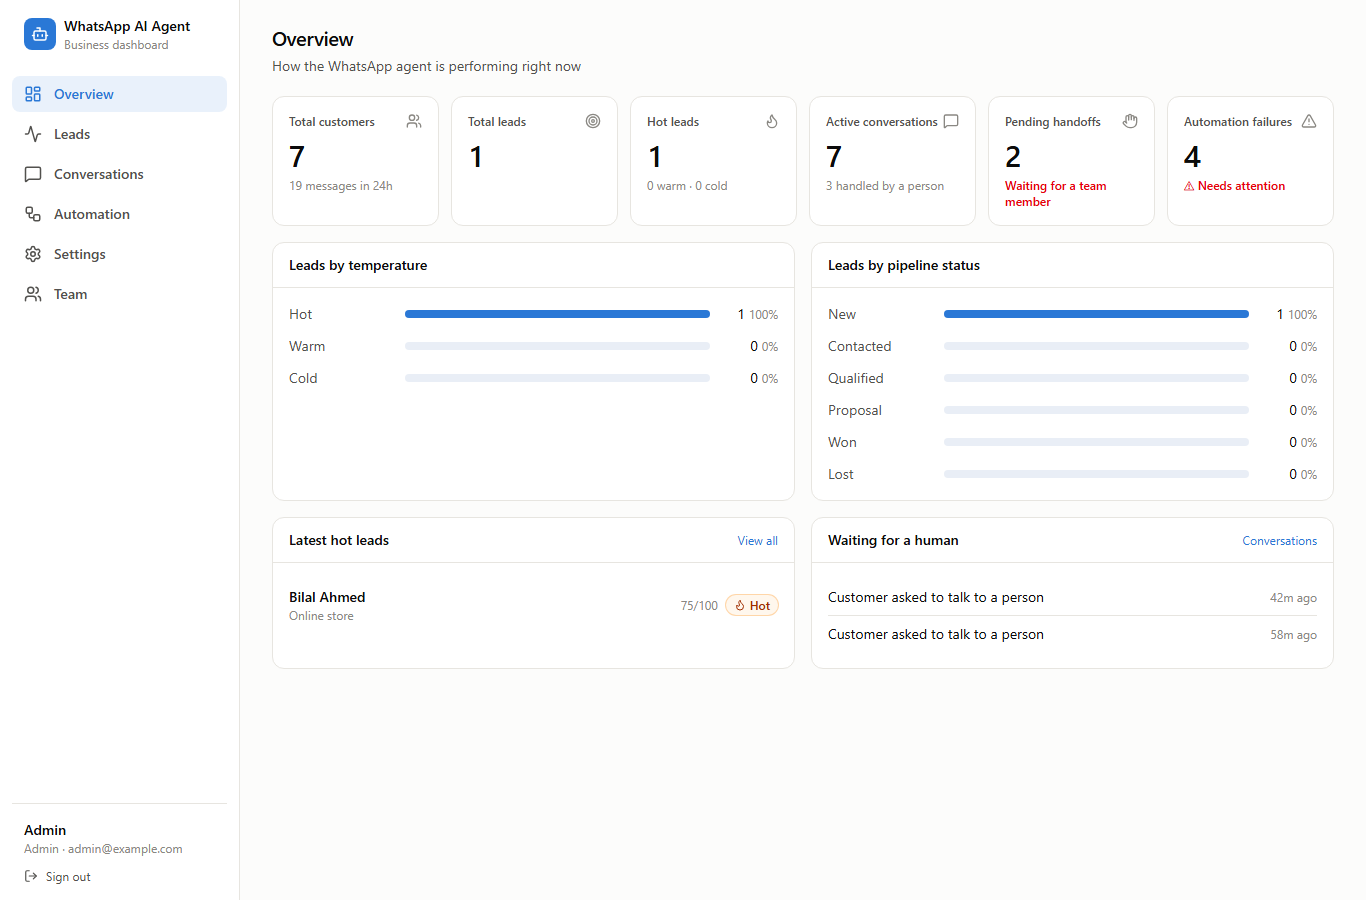
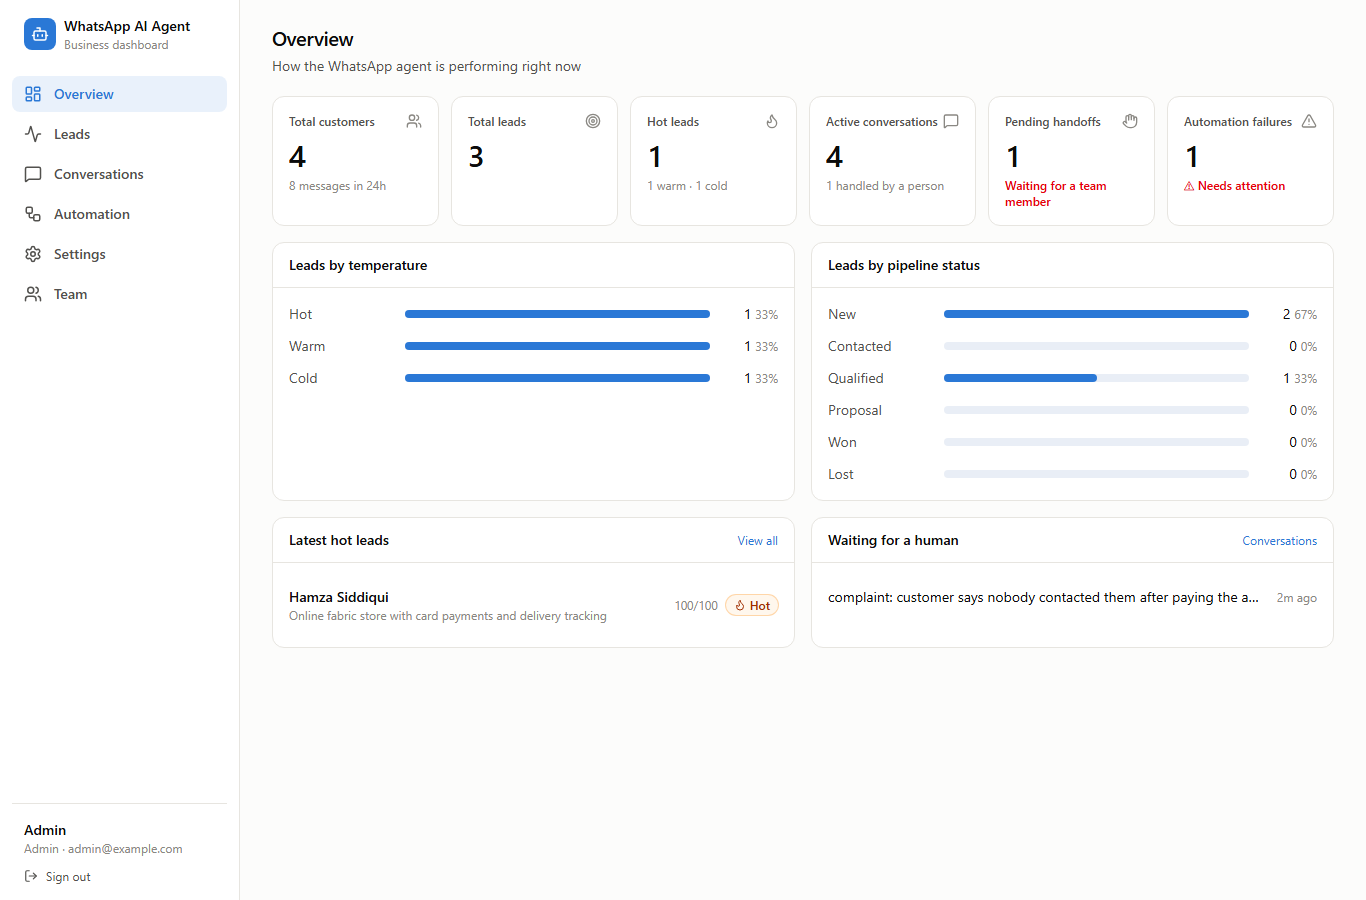
Final polish: live n8n monitoring + retries verified, demo-ready, Loom fixes
- n8n API connected with a least-privilege key (workflow list/read, execution list/read/retry)
- Verified live: Automation page reads real workflow status + execution history;
  admin-approved retry triggers real n8n retry executions; gives up after 3 and alerts once more
- Loom script fixed: fixed -MessageId so the duplicate demo really is a duplicate;
  notes for fallback mode and re-recording
- Fresh screenshots: overview with demo data, live automation monitoring
- Docs updated: n8n retries moved from "not tested" to "verified live"

diff --git a/docs/LOOM_SCRIPT.md b/docs/LOOM_SCRIPT.md
@@ -26,13 +26,14 @@ Point at the **activity timeline** and the **Update lead** panel (change status 
 ### 1:30-2:45 · Live message through the whole pipeline
 Terminal:
 ```powershell
-.\scripts\send-test-webhook.ps1 -Url http://127.0.0.1:5690/webhook/whatsapp -WaId 923001239999 -Name "Live Demo" -Text "Do you provide support after launch?"
+.\scripts\send-test-webhook.ps1 -Url http://127.0.0.1:5690/webhook/whatsapp -WaId 923001239999 -Name "Live Demo" -Text "Do you provide support after launch?" -MessageId "wamid.LOOM.1"
 ```
+(The fixed `-MessageId` matters: without it the script invents a new id every run, and the duplicate demo below would not be a duplicate.)
 Switch to **n8n → WA 1 → Executions**, open the newest run.
 > "That's exactly what Meta sends, with a cryptographic signature. n8n forwards the raw bytes, the backend verifies the signature, saves the message, answers Meta in milliseconds, then the AI replies."
 
 Dashboard → **Conversations → Live Demo**: show the reply and its badges (intent, modules, confidence or *fallback*).
-Run the **same command again**.
+Run the **exact same command again** (same `-MessageId`); the terminal shows `"duplicates": 1`.
 > "Meta sometimes delivers the same message twice. The second time nothing happens: the database itself guarantees one reply per message."
 
 ### 2:45-3:45 · Human handoff
@@ -62,7 +63,8 @@ Show the **architecture diagram**, **n8n screenshots**, and **TEST_RESULTS.md**.
 ## Backup plans
 | If… | Do |
 |---|---|
-| No Gemini key | Say "the AI is running in fallback mode: answers come from the FAQ search", which is a feature in itself |
+| No Gemini key | Say "the AI is running in fallback mode: answers come from the FAQ search", which is a feature in itself. The Automation page will also list **"GEMINI_API_KEY is not set"** (one grouped error): point at it, "even a missing AI key is reported, never silent" |
+| Re-recording a segment | Before re-running the live message, delete it: `docker exec wa-agent-postgres psql -U wa_agent -d wa_agent -c "DELETE FROM customers WHERE wa_id='923001239999';"` (or simply rerun `scripts\demo_data.py` and use a new `-MessageId`) |
 | A command fails live | Cut and re-record that segment; Loom lets you trim |
 | n8n asks for login | Use `N8N_OWNER_EMAIL` / `N8N_OWNER_PASSWORD` from `.env` (local only) |
 | You want to reset | `backend\.venv\Scripts\python scripts\demo_data.py` (recreates the demo customers) |

diff --git a/docs/TEST_RESULTS.md b/docs/TEST_RESULTS.md
@@ -38,7 +38,14 @@ Each critical rule was **deliberately broken** to confirm the suite fails:
 10 identical webhooks **in parallel** → 1 message · 5 parallel AI calls → 1 reply · Urdu / emoji round-trip · 3 MB+ payload → 413 · unsigned or forged webhook → 401, nothing stored · `alg: none` JWT → 401 · SQL-injection / `%` / `<script>` search strings → harmless (parameterised queries) · reply > 4096 chars or blank → 422 · database down → `/health` 503 instead of a crash
 
 ## Not tested (needs real accounts)
-Real Meta delivery and status webhooks · real Gemini answers (the client code is tested against a fake SDK) · Gmail sending (the `log` channel is tested) · n8n automatic execution retry against the real n8n API (tested against a fake n8n).
+Real Meta delivery and status webhooks · real Gemini answers (the client code is tested against a fake SDK) · Gmail sending (the `log` channel is tested).
+
+## Verified live against the real n8n API (2026-11-17)
+With a least-privilege n8n API key (only `workflow:list/read`, `execution:list/read/retry`):
+- The Automation page reads all 6 workflows (active) and the last 20 executions from n8n.
+- **Automatic retry through n8n:** the drill failed (execution #85) → needs approval → an admin approved → the backend called `POST /executions/85/retry` → n8n created **retry executions** (`mode=retry`) → each failure was grouped onto the same error (×4) → after 3 retries the error became **OPEN**.
+- **Exactly 2 alerts**: "APPROVAL NEEDED" at the start and "ACTION NEEDED (x4)" after giving up; none in between.
+- Found during this test: Docker's clock ran **3.7 s ahead** of Windows. The app is unaffected (it writes and compares retry times with the same clock), but tests must not mix the two clocks.
 
 ## Run it yourself
 ```powershell

diff --git a/README.md b/README.md
@@ -40,6 +40,10 @@ flowchart LR
 |---|---|
 | ![WA 1](docs/screenshots/n8n/01-incoming-message.png) | ![Errors](docs/screenshots/automation-errors.png) |
 
+**Live n8n monitoring on the dashboard** (workflow status + execution history, including automatic `retry` runs):
+
+![Automation monitoring](docs/screenshots/automation-monitoring.png)
+
 ## Quick start (Windows, Docker)
 ```powershell
 git clone <repository-url> whatsapp-ai-business-agent; cd whatsapp-ai-business-agent
@@ -89,4 +93,4 @@ docs/              everything above
 ```
 
 ## Status & honest scope
-Complete and tested with **mock WhatsApp** and a **fake Gemini** that follows the real SDK interface. Going live needs a Meta WhatsApp Business account and a Gemini key (free test tiers are documented), plus a server for production. **No paid service is enabled by this project.**
+Complete and tested with **mock WhatsApp** and a **fake Gemini** that follows the real SDK interface; n8n monitoring and automatic retries are verified live against the real n8n API. Going live needs a Meta WhatsApp Business account and a Gemini key (free test tiers are documented), plus a server for production. **No paid service is enabled by this project.**

diff --git a/docs/PORTFOLIO.md b/docs/PORTFOLIO.md
@@ -38,4 +38,4 @@ Small businesses lose leads on WhatsApp because nobody answers at night and nobo
 | What would you add next? | Real Meta and Gemini go-live, pgvector semantic search for larger FAQs, multi-language templates, a queue (e.g. Redis) for very high volume, and metrics/tracing (Prometheus/OpenTelemetry). |
 
 ## Honest scope
-Built and tested in mock mode: WhatsApp sending is simulated, and Gemini is exercised through a fake that follows the real SDK interface. Live Meta delivery, live Gemini answers and Gmail sending need accounts (free test tiers are documented). They are listed as "not tested" rather than claimed.
+Built and tested in mock mode: WhatsApp sending is simulated, and Gemini is exercised through a fake that follows the real SDK interface. Automatic retries through the real n8n API were verified live. Live Meta delivery, live Gemini answers and Gmail sending need accounts (free test tiers are documented). They are listed as "not tested" rather than claimed.

diff --git a/docs/REQUIREMENTS.md b/docs/REQUIREMENTS.md
@@ -15,7 +15,7 @@
 | Notify sales representatives | WA 2 (hot lead) + WA 3 (handoff) → Gmail/log | e2e #5, `test_lead_notification_is_deduplicated` | ✅ (🟡 Gmail login) |
 | Transfer complex chats to humans | Handoff (keyword, complaint, low confidence) | e2e #5-6, `test_escalation_cases` | ✅ |
 | Permitted automated follow-ups | WA 4 + consent, 24h/template rules, approval | e2e #8, `test_follow_up_eligibility` | ✅ |
-| Detect automation errors, handle failures | WA 5 + recovery service | e2e #9, `test_recovery.py`, live drill | ✅ |
+| Detect automation errors, handle failures | WA 5 + recovery service | e2e #9, `test_recovery.py`, live drill, **live n8n-API retries** (TEST_RESULTS) | ✅ |
 | Professional admin dashboard | React + TS + Tailwind, 6 pages | screenshots, 0 console errors | ✅ |
 
 ## 2. Technology stack
